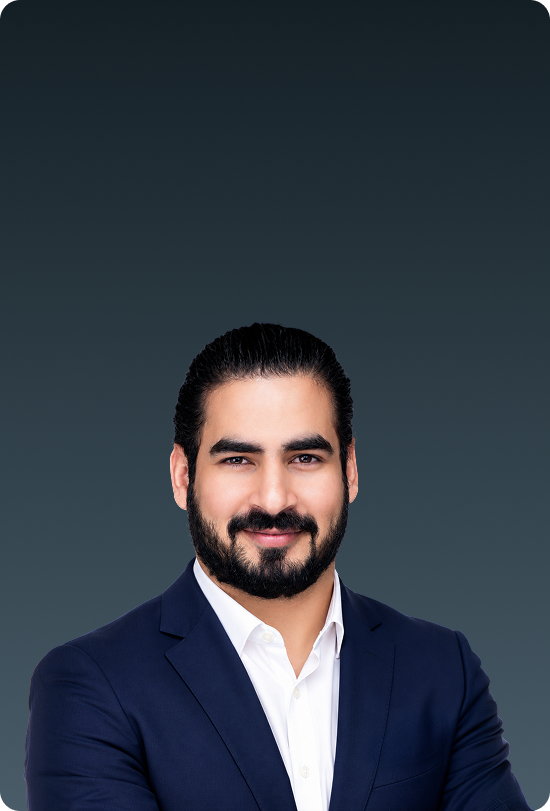
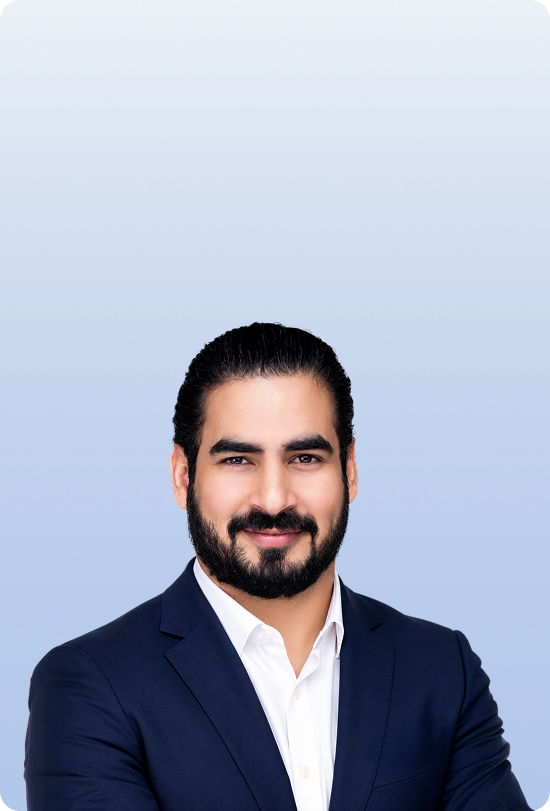
Update Arabic hero/why/who/about/final copy and presenter photo
- Refresh yellow-highlighted Arabic lines across hero, why, who,
  about STARTRADER, and final CTA sections (English left unchanged)
- Replace Ghassan Albohtori presenter photo

diff --git a/src/i18n/translations.ts b/src/i18n/translations.ts
@@ -204,11 +204,14 @@ const ar: Translation = {
   hero: {
     badge: "ندوة مباشرة مجانية · قطر",
     title: {
-      main: "تعرف على أهم ما يجب متابعته",
-      accent: "في الأسواق",
+      main: "تعرف على أهم العوامل التي تؤثر في حركة",
+      accent: "الذهب والنفط والأسواق العالمية",
     },
-    lead: "للمهتمين بأسواق الذهب والنفط والأسواق العالمية، والراغبين في فهم أعمق لعوامل تحركات السوق.",
-    tagline: ["سنستمع إلى أسئلتكم", "ونساعدكم في الحصول على رؤية أوضح"],
+    lead: "ندوة للمهتمين بالذهب والنفط والدولار، لفهم أهم العوامل التي تؤثر على تحركات الأسواق وقراءة الأحداث الاقتصادية بطريقة أوضح.",
+    tagline: [
+      "اكتشف كيف ينظر المحللون إلى تحركات السوق،",
+      "وما العوامل التي تستحق المتابعة قبل اتخاذ أي خطوة.",
+    ],
     cta: "احجز مقعدك المجاني",
     info: {
       date: { label: "05-08-2026", sub: "الأربعاء" },
@@ -245,9 +248,10 @@ const ar: Translation = {
 
   why: {
     title: "لماذا هذه الندوة؟",
-    subtitle: "قد تكون تحركات السوق غير مفهومة أحيانًا. نحن نساعدك في تبسيطها.",
+    subtitle:
+      "قد تبدو تحركات الأسواق معقدة أحيانًا. هذه الندوة ستساعدك على فهم أهم العوامل المؤثرة بطريقة أبسط وأكثر وضوحًا.",
     cards: [
-      "الذهب، النفط، الدولار، العلاقة بين مختلف الأصول قد تكون صعبة الفهم.",
+      "العلاقة بين الذهب والنفط والدولار قد تكون غير واضحة للكثير من المتابعين.",
       "إذا كنت تشعر بالحيرة تجاه السوق، فهذه الندوة لك.",
       "تهدف هذه الندوة إلى مساعدتك في استخدام طريقة أكثر وضوحًا لتحديد ما يجب التركيز عليه، وما يجب تجاهله، وما يجب فعله لاحقًا.",
     ],
@@ -261,7 +265,7 @@ const ar: Translation = {
       "تتابع تحديثات السوق ولكنك لا تزال غير متأكد من أهم الأمور",
       "لا ترغب في الاعتماد على آراء أو إشارات عشوائية",
       "تريد طريقة واضحة لقراءة تحركات السوق",
-      "تفكر في خطوتك التالية وتريد مزيدًا من الوضوح أولًا",
+      "تفكر في خطوتك التالية وتريد فهمًا أوضح قبل اتخاذ أي خطوة",
     ],
     tags: [
       "لا يلزم معرفة متقدمة.",
@@ -327,7 +331,7 @@ const ar: Translation = {
   about: {
     title: "عن ستار تريدر",
     paras: [
-      "ستار تريدر هي شركة وساطة عالمية مرخصة ومتخصصة في تداول الأصول المتعددة، توفر الوصول إلى الأسواق المالية، وتقنيات التداول، وآراء المحللين، والبرامج التدريبية.",
+      "ستار تريدر هي شركة عالمية مرخصة توفر إمكانية الوصول إلى أسواق متعددة، مع أدوات تداول، ودعم، ومحتوى تحليلي، وبرامج تعليمية تساعد المتداولين على متابعة الأسواق بطريقة أكثر تنظيمًا.",
       "كما أن ستار تريدر شريك رسمي لكل من الرابطة الوطنية لكرة السلة (NBA) وكأس بورش كاريرا الشرق الأوسط.",
     ],
   },
@@ -371,7 +375,7 @@ const ar: Translation = {
   },
 
   final: {
-    title: "الأسواق في حركة مستمرة، اعرف أهم المعلومات",
+    title: "الذهب والنفط والدولار في حركة مستمرة. تعرف على ما يستحق المتابعة",
     subtitle:
       "عندما يتحرك الذهب، أو يتفاعل النفط، أو تظهر أخبار اقتصادية جديدة، لا ينبغي أن تبدأ من الصفر في كل مرة.",
     pills: [